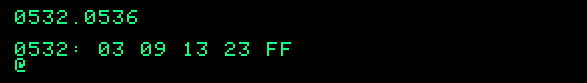
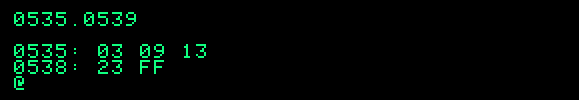
Update tweaks section with new addresses

Changed region(s): [[0.0, 0.4337, 0.4974, 0.9157], [0.0, 0.0964, 0.2487, 0.2892]]

diff --git a/README.md b/README.md
@@ -19,7 +19,7 @@
     * You can use this with a local copy of the emulator by putting the file in the `/tapes` directory and adding a reference to it in `apple1.htm`
     
 * **puzz15.txt**
-    * The binary data in manually-typed "Woz Monitor" format
+    * The program represented in typed out "Woz Monitor" format
     * Many emulators will let you copy/paste or otherwise load this in
     * In theory, you could also send this over to a real Apple 1 (or replica/clone) via serial communication
 
@@ -31,7 +31,7 @@
 In situtations where the game might be getting different players (a demo display, for example), you might want to have the option to view instructions after *every* game, rather than just when the program is first run. From the Monitor, just change one byte:
 
 ```
-0394: 0B
+0398: 0B
 ```
 (This sets the destination of a `jmp` instruction to a different entry point.)
    
@@ -40,7 +40,7 @@ In situtations where the game might be getting different players (a demo display
 The above change essentially starts the game over every round, including the initial display of `15 Puzzle - By Jeff Jetton`. You can tell the game to always skip that line by entering this in the Monitor:
 
 ```
-030C: 95
+030C: 98
 ```
 (This bumps up the spot at which the program begins looking for the "welcome" text data.)
 
@@ -48,13 +48,18 @@ The above change essentially starts the game over every round, including the ini
 
 Game difficulty is determined by the number of "shuffles" a fresh (solved) puzzle gets. The easiest setting (level 1) just does three random moves to mix the board up for you, while the hardest (level 5) does 255.
 
-The number of shuffles that correspond to each difficulty level can be found in bytes `$0532` to `$0536`:
+The number of shuffles that correspond to each difficulty level can be found in bytes `$0535` to `$0539`:
 
 ![monitor screenshot](https://github.com/JeffJetton/apple1-15-puzzle/blob/master/img/monitor.png)
 
-So if, for example, you wanted to make level two slightly harder, just increase that second value by a couple of shuffles:
+So if, for example, you wanted to make level 2 slightly harder, just increase that second value by a couple of shuffles:
 
 ```
-0533: 0B
+0536: 0B
+```
+And here's how to win a bet that you can solve a level 5 puzzle in one move... :-)
+
+```
+0539: 01
 ```
 
